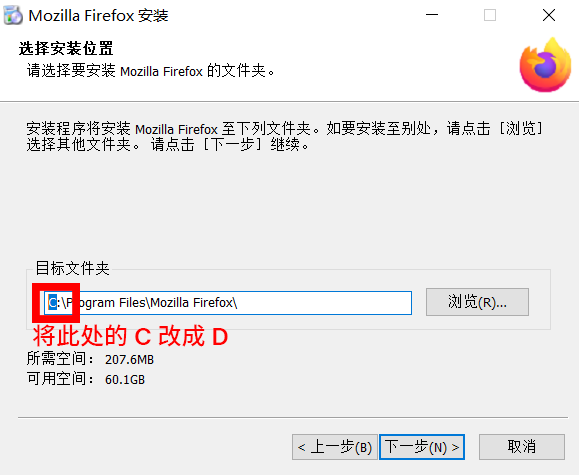
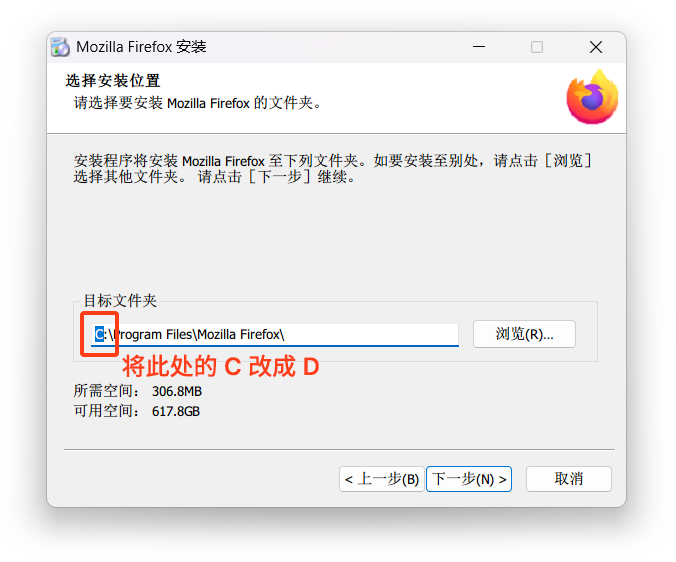
同步网页版；调整部分排版

diff --git a/chapters/chap_1-3_software-installation.tex b/chapters/chap_1-3_software-installation.tex
@@ -127,18 +127,18 @@
   一些软件可能有「安装版」和「便携版」之分——前者像普通软件一样，需要安装使用，而后者不必安装，下载后可以直接运行（可能需要解压）。一般来说，安装版文件名含有「setup」字样，而便携版可能有「portable」字样。一般我们建议下载安装版。
 \end{note}
 
-图\autoref{fig:Download_WPS} 展示了在 WPS 官网下载 WPS 软件，而图\autoref{fig:OBS} 展示了在 OBS Studio 官网下载 OBS Studio 软件。
+\autoref{fig:Download_WPS} 展示了在 WPS 官网下载 WPS 软件，而\autoref{fig:OBS} 展示了在 OBS Studio 官网下载 OBS Studio 软件。
 
 \begin{figure}[htb!]
   \centering
-  \includegraphics[width=10cm]{assets/basic/Download_WPS.png}
+  \includegraphics[width=.9\textwidth]{assets/basic/Download_WPS.png}
   \caption{从官网下载 WPS}
   \label{fig:Download_WPS}
 \end{figure}
 
 \begin{figure}[htb!]
   \centering
-  \includegraphics[width=10cm]{assets/basic/OBS.png}
+  \includegraphics[width=.9\textwidth]{assets/basic/OBS.png}
   \caption{从官网下载 OBS Studio}
   \label{fig:OBS}
 \end{figure}
@@ -172,11 +172,11 @@
   \label{fig:Download_page_1}
 \end{figure}
 
-点击之后我们会跳转到这样一个「下载地址」的页面。同样地，我们不要点击「优先使用✕✕管家下载」之下的所有链接，而要点击「普通下载地址」下方的【通用网络下载】等链接：
+点击之后我们会跳转到这样一个「下载地址」的页面。同样地，我们不要点击「优先使用✕✕管家下载」之下的所有链接，而要点击「普通下载地址」下方的【通用网络下载】等链接，如\autoref{fig:Download_page_2}。
 
 \begin{figure}[htb!]
   \centering
-  \includegraphics[width=10.5cm]{assets/basic/Download_page_2.png}
+  \includegraphics[width=.6\textwidth]{assets/basic/Download_page_2.png}
   \caption{选择「普通下载地址」中的链接}
   \label{fig:Download_page_2}
 \end{figure}
@@ -199,7 +199,7 @@
   \end{minipage} 
 \end{figure}
 
-我们用杀毒软件卡巴斯基扫描假的 OBS 安装包，结果如下：
+我们用杀毒软件卡巴斯基扫描假的 OBS 安装包，结果如\autoref{fig:Kaspersky_app_warning} 所示。而卡巴斯基提供的网页版说明，则对这种威胁有更详细的解释（\autoref{fig:Kaspersky_website_warning}）。在本章的最后，我们会向你展示这个使用【安全下载】得到的可疑文件究竟是什么。
 
 \begin{figure}[htb!]
   \centering
@@ -208,8 +208,6 @@
   \label{fig:Kaspersky_app_warning}
 \end{figure}
 
-而卡巴斯基提供的网页版说明，则对这种威胁有更详细的解释：
-
 \begin{figure}[htb!]
   \centering
   \includegraphics[width=.9\textwidth]{assets/basic/Kaspersky_website_warning.png}
@@ -217,7 +215,6 @@
   \label{fig:Kaspersky_website_warning}
 \end{figure}
 
-在本章的最后，我们会向你展示这个使用【安全下载】得到的可疑文件究竟是什么。
 
 \subsection{另辟蹊径：软件公众号及其他小众渠道}
 
@@ -239,7 +236,7 @@
 
 \begin{figure}[htb!]
   \centering
-  \includegraphics[width=.7\textwidth]{assets/basic/Ads_in_store.png}
+  \includegraphics[width=.85\textwidth]{assets/basic/Ads_in_store.png}
   \caption{在某软件管家中搜索「Bandizip」的结果}
   \label{fig:Bandizip_in_software_manager}
 \end{figure}
@@ -252,21 +249,21 @@
   \item 一个光秃秃的 \MissingVerb{exe} 文件或者 \MissingVerb{msi} 文件。我们直接双击这个文件就能启动安装进程。
     \begin{figure}[htb!]
       \centering
-      \includegraphics[width=.6\textwidth]{assets/basic/Single_file_installer.png}
+      \includegraphics[width=.9\textwidth]{assets/basic/Single_file_installer.png}
       \caption{单文件安装包}
       \label{fig:Single_file_installer}
     \end{figure}
   \item 一个压缩包，例如 \MissingVerb{zip} 或 \MissingVerb{rar} 文件。我们需要解压缩这个压缩包到某处，然后在解压出来的文件中找到「\MissingVerb{setup.exe}」「\MissingVerb{install.exe}」等名字的程序双击打开。
     \begin{figure}[htb!]
       \centering
-      \includegraphics[width=.6\textwidth]{assets/basic/Archive_installer.png}
+      \includegraphics[width=.9\textwidth]{assets/basic/Archive_installer.png}
       \caption{压缩文件安装包}
       \label{fig:Archive_installer}
     \end{figure}
   \item 一个扩展名是 \MissingVerb{iso} 的文件。我们右击这个 \MissingVerb{iso} 文件，选择【打开方式】→【文件资源管理器】，然后在弹出的新窗口中找到「\MissingVerb{setup.exe}」「\MissingVerb{install.exe}」等名字的程序双击打开\footnote{当你这样打开 \MissingTT{iso} 文件后，这个文件会临时被「映射」成电脑里的一个新「分区」，打开【此电脑】就能发现它。在你安装完成后，可以打开【此电脑】，右键这个分区选择【弹出】来让这个分区消失。}。
     \begin{figure}[htb!]
       \centering
-      \includegraphics[width=.6\textwidth]{assets/basic/Image_Installer.png}
+      \includegraphics[width=.8\textwidth]{assets/basic/Image_Installer.png}
       \caption{镜像文件安装包}
       \label{fig:Image_Installer}
     \end{figure}
@@ -275,7 +272,7 @@
 \begin{note}
   至于那些「绿色版」或「便携版」软件，它们没有「安装」这一过程。要么是单单一个 \MissingVerb{exe} 文件，点开就能用；要么以压缩包形式出现，但是「开箱即用」——解压后直接运行主程序就可以用，就像下面这样。
   \begin{center}
-    \includegraphics[width=.7\textwidth]{assets/basic/Portable_app.png}
+    \includegraphics[width=.8\textwidth]{assets/basic/Portable_app.png}
     \captionof{figure}{便携版软件}
     \label{fig:Portable_app}
   \end{center}
@@ -310,16 +307,16 @@ C:\Program Files (x86)\<厂商名字>\<软件名字>\
 
 \begin{figure}[htb!]
   \centering
-  \includegraphics[width=.55\textwidth]{assets/basic/Change_C_to_D.png}
+  \includegraphics[width=.65\textwidth]{assets/basic/Change_C_to_D.png}
   \caption{快速得到 D 盘安装软件的路径}
   \label{fig:Change_C_to_D}
 \end{figure}
 
-有一些软件的安装包不是「下一步」型的，而是直接有一个【立即安装】的按钮，如下图。一般这种情况，可以展开「自定义安装」之类的选项，然后更改软件的安装位置。
+有一些软件的安装包不是「下一步」型的，而是直接有一个【立即安装】的按钮，如\autoref{fig:Sogou_change_directory}。一般这种情况，可以展开「自定义安装」之类的选项，然后更改软件的安装位置。
 
 \begin{figure}[htb!]
   \centering
-  \includegraphics[width=8cm]{assets/basic/Sogou_change_directory.png}
+  \includegraphics[width=.65\textwidth]{assets/basic/Sogou_change_directory.png}
   \caption{有时候得找「自定义安装」的选项}
   \label{fig:Sogou_change_directory}
 \end{figure}
@@ -328,7 +325,7 @@ C:\Program Files (x86)\<厂商名字>\<软件名字>\
 \begin{MissingVerbatim}
   C:\用户\<你的用户文件夹名>\AppData
 \end{MissingVerbatim}
-这是因为 C 盘作为 Windows 系统所在的分区，有一套复杂的权限管理机制，往两个 \MissingVerb{Program Files} 目录放东西是需要管理员权限的（见\chapref{cha:basic-maintenance}）。相比之下，位于用户文件夹的 \MissingVerb{AppData} 则不需要管理员权限，因此被这些软件选为理想的安装路径。如果你想将这类软件安装到 D 盘或其他分区，可以在对应分区新建一个文件夹（例如 \MissingVerb{UserApps} 或 \MissingVerb{UserPrograms}）来统一存放它们。当然，你也可以照猫画虎地直接「改 C 为别的」来安装到其他分区，但这样会产生复杂的目录结构，可能不利于你自己管理。
+这是因为 C 盘作为 Windows 系统所在的分区，有一套复杂的权限管理机制，往两个 \MissingVerb{Program} \MissingVerb{Files} 目录放东西是需要管理员权限的（见\chapref{cha:basic-maintenance}）。相比之下，位于用户文件夹的 \MissingVerb{AppData} 则不需要管理员权限，因此被这些软件选为理想的安装路径。如果你想将这类软件安装到 D 盘或其他分区，可以在对应分区新建一个文件夹（例如 \MissingVerb{UserApps} 或 \MissingVerb{UserPrograms}）来统一存放它们。当然，你也可以照猫画虎地直接「改 C 为别的」来安装到其他分区，但这样会产生复杂的目录结构，可能不利于你自己管理。
 
 \begin{warning}
   若你仍想把软件\regcolor{安装到 C 盘，请不要更改其默认安装路径}。受 C 盘权限机制的影响，将软件随意安装到 C 盘内的其他位置可能会出现问题。
@@ -344,14 +341,14 @@ C:\Program Files (x86)\<厂商名字>\<软件名字>\
 
 \section{软件收费、破解和自由软件}
 
+很多软件是需要购买的，包括 Windows 系统本身（一般你购买电脑时，电脑厂商已经帮你出了买 Windows 这部分钱）。常见的专业软件，从平面设计领域的 Adobe 家族的 Photoshop（俗称「PS」）、Premiere Pro（俗称「PR」），工程领域的 Autodesk 家族的 AutoCAD、3ds MAX，到开发领域的 JetBrains 家族的 IDEA、PyCharm，甚至于我们每天都在用的 Word 和 PowerPoint，这些软件全部都需要付费购买。\autoref{fig:Adobe_PS}展示的是过去正版 Photoshop 和 Lightroom 软件的购买页面——定价 888 元一年。
+
 \begin{wrapfigure}[17]{r}{6.2cm}
   \centering
-  \raisebox{0pt}[\dimexpr\height-0.4\baselineskip\relax]{\includegraphics[width=6cm]{assets/basic/Adobe_PS.png}}
+  \includegraphics[width=6cm]{assets/basic/Adobe_PS.png}
   \caption{Adobe 的「Creative Cloud 中国摄影计划」套装。}
   \label{fig:Adobe_PS}
 \end{wrapfigure}
-
-很多软件是需要购买的，包括 Windows 系统本身（一般你购买电脑时，电脑厂商已经帮你出了买 Windows 这部分钱）。常见的专业软件，从平面设计领域的 Adobe 家族的 Photoshop、Premiere Pro，工程领域的 Autodesk 家族的 AutoCAD、3ds MAX，到开发领域的 JetBrains 家族的 IDEA、PyCharm，甚至于我们每天都在用的 Word 和 PowerPoint，这些软件全部都需要付费购买。右图是购买正版 Photoshop（俗称的 PS）软件的页面——定价 888 元一年。
 
 而由于这样或那样的原因，我们在实际生活中，或多或少都在「没有付费而『白嫖』这些软件」。这是因为我们使用的这些软件被「破解」了。破解之后，软件的计费功能失效，原本收费的软件通过某种方式变成了可以免费永久使用的软件。大体上，网上流传的破解软件一般有这么两种形式：
 
@@ -386,7 +383,7 @@ C:\Program Files (x86)\<厂商名字>\<软件名字>\
 
 \begin{figure}[htb!]
   \centering
-  \includegraphics[width=.7\textwidth]{assets/basic/MS_Store_Content.png}
+  \includegraphics[width=.8\textwidth]{assets/basic/MS_Store_Content.png}
   \caption{Microsoft Store 里的软件}
   \label{fig:MS_Store_Content}
 \end{figure}
@@ -403,7 +400,7 @@ C:\Program Files (x86)\<厂商名字>\<软件名字>\
 
 \begin{figure}[htb!]
   \centering
-  \includegraphics[width=.65\textwidth]{assets/basic/Fake_OBS_installer.png}
+  \includegraphics[width=.7\textwidth]{assets/basic/Fake_OBS_installer.png}
   \caption{假 OBS 的详细信息}
   \label{fig:Fake_OBS_installer}
 \end{figure}
@@ -420,7 +417,7 @@ C:\Program Files (x86)\<厂商名字>\<软件名字>\
   \end{minipage}
   \begin{minipage}{.55\textwidth}
     \centering
-    \includegraphics[width=.95\textwidth]{assets/basic/Fake_OBS_install.png}
+    \includegraphics[width=.99\textwidth]{assets/basic/Fake_OBS_install.png}
     \caption{假的 OBS 安装进度条}
     \label{fig:Fake_OBS_install}
   \end{minipage} 

diff --git a/chapters/chap_1-2_file-and-file-management.tex b/chapters/chap_1-2_file-and-file-management.tex
@@ -35,7 +35,7 @@
 
 \begin{figure}[htb!]
   \centering
-  \includegraphics[width=.9\textwidth]{assets/basic/Partition_structure.pdf}
+  \includegraphics[width=.75\textwidth]{assets/basic/Partition_structure.pdf}
   \caption{分区的结构}
   \label{fig:Partition_structure}
 \end{figure}
@@ -66,9 +66,8 @@
 
 \section{文件、文件名和文件类型}
 
-\begin{wrapfigure}[5]{r}{7.2cm}
+\begin{wrapfigure}[7]{r}{7.2cm}
   \centering
-  \vspace*{-3ex}
   \includegraphics[width=7cm]{assets/basic/5_files.png}
   \caption{一些文件}
   \label{fig:5_files}
@@ -79,7 +78,10 @@
 文件有自己的名字，称为「文件名」。在 Windows 系统中，文件名可以分成三个部分：
 
 \begin{itemize}
-  \item 「主名」是指文件名中，「点号」之前的部分。这部分内容可以自定，相当于人类的姓名。上图中，\MissingVerb{数字逻辑设计第 13 讲} 和 \MissingVerb{Obsidian.1.5.11} 等都是文件的主名。
+  \item 「主名」是指文件名中，「点号」之前的部分。这部分内容可以自定，相当于人类的姓名。\autoref{fig:5_files} 中，\MissingVerb{数字逻辑设计第 13 讲} 和 \MissingVerb{Obsidian.1.5.11} 等都是文件的主名。
+\end{itemize}
+
+\begin{itemize}
   \item 「点号」是指文件名中间\regcolor{最后一个} \MissingVerb{.}。
   \item 「扩展名」是指文件名中，点号之后的部分\cprotect\footnote{有时候我们称呼文件的扩展名时也会把点号包含进去。下面两种说法是等价的：
     \begin{itemize}
@@ -396,7 +398,7 @@ Windows 11 系统中，默认情况下，所有的已知文件夹会被固定在
 
 \begin{figure}[htb!]
   \centering
-  \includegraphics[width=.7\textwidth]{assets/basic/Win11_user_folders.png}
+  \includegraphics[width=.75\textwidth]{assets/basic/Win11_user_folders.png}
   \caption{Windows 11 的已知文件夹}
   \label{fig:Win11_user_folders}
 \end{figure}
@@ -405,7 +407,7 @@ Windows 11 系统中，默认情况下，所有的已知文件夹会被固定在
 
 \begin{figure}[htb!]
   \centering
-  \includegraphics[width=.7\textwidth]{assets/basic/Reach_known_folders_manually.png}
+  \includegraphics[width=.75\textwidth]{assets/basic/Reach_known_folders_manually.png}
   \caption{手动找到已知文件夹}
   \label{fig:Reach_known_folders_manually}
 \end{figure}
@@ -414,12 +416,12 @@ Windows 11 系统中，默认情况下，所有的已知文件夹会被固定在
 
 \begin{figure}[htb!]
   \centering
-  \includegraphics[width=.7\textwidth]{assets/basic/User_directories.png}
+  \includegraphics[width=.75\textwidth]{assets/basic/User_directories.png}
   \caption{Windows 10 的已知文件夹}
   \label{fig:User_directories}
 \end{figure}
 
-默认情况下，\cprotect\regcolor{已知文件夹的实际位置在 \MissingVerb{C:\用户\<你的用户名>}，这是你的「用户配置文件夹」（User Profile Folder，俗称「用户文件夹」）。}除了直接在【此电脑】中查看外，你也可以手动打开这个路径来找到它们。已知文件夹涵盖了「桌面」「文档」「图片」「音乐」「视频」等多种类别，并且都配有形象的图标。如果你计划将自己的文件存放在 C 盘，这些目录是不错的选择：毕竟，C 盘作为 Windows 的系统分区，有严格的保护机制，最好不要把你的文件直接放在 C 盘根目录下。
+默认情况下，\cprotect\regcolor{已知文件夹的实际位置在 \MissingVerb{C:\用户\<你的用户名>}\cprotect\footnote{\MissingVerb{C:\用户} 文件夹有些特殊：它在资源管理器中显示的名称是「用户」，但硬盘中存储的名称实际上是 \MissingVerb{Users}。因此，你可能会在其他地方看到 \MissingVerb{C:\Users} 这样的写法。下文介绍的各种已知文件夹也有类似的机制。在本书中，为了方便你在资源管理器中直接找到它们，我们会统一采用显示名称。}，这是你的「用户配置文件夹」（User Profile Folder，俗称「用户文件夹」）。}除了直接在【此电脑】中查看外，你也可以手动打开这个路径来找到它们。已知文件夹涵盖了「桌面」「文档」「图片」「音乐」「视频」等多种类别，并且都配有形象的图标。如果你计划将自己的文件存放在 C 盘，这些目录是不错的选择：毕竟，C 盘作为 Windows 的系统分区，有严格的保护机制，最好不要把你的文件直接放在 C 盘根目录下。
 
 但如果你打算把自己的文件放到其他的分区，你的选择就会自由很多，各个分区的根目录也许是不错的位置。你可以仿照 Windows 给你的已知文件夹，自己在其他分区的根目录下按类别新建好「文档」「电影」「音频」等文件夹，用来帮助自己整理文件。或者更直接点，\regcolor{你还可以将 Windows 提供给你的这些已知文件夹迁移到其他分区}，这样它们的实际位置就不再是 \MissingVerb{C:\用户\<你的用户名>}，而是你选定的地方了。例如，如果你想使用 D 盘根目录即 \MissingVerb{D:\} 来存放这些已知文件夹，可以按下面的步骤操作。
 
@@ -435,7 +437,7 @@ Windows 11 系统中，默认情况下，所有的已知文件夹会被固定在
   \item 在资源管理器中，右击某个我们想要迁移的文件夹（比如【文档】），选择【属性】，然后切换到【位置】选项卡，如\autoref{fig:Pos_of_Documents}。
     \begin{figure}[htb!]
       \centering
-      \includegraphics[width=.7\textwidth]{assets/basic/Pos_of_Documents.png}
+      \includegraphics[width=.75\textwidth]{assets/basic/Pos_of_Documents.png}
       \caption{查看「文档」的位置}
       \label{fig:Pos_of_Documents}
     \end{figure}

diff --git a/chapters/chap_3-4_manage-storage.tex b/chapters/chap_3-4_manage-storage.tex
@@ -146,6 +146,7 @@
   \includegraphics[width=.7\textwidth]{assets/advanced/Move_space_from_partition_to_partition.pdf}
   \caption{在分区之间转移空间}
   \label{fig:Move_space_from_partition_to_partition}
+  \vspace*{-.4cm}
 \end{figure}
 
 如果我们需要把 E 盘的空间转移给 C 盘，就需要更复杂的数据移动，逐级将可利用的空闲空间向前转移。Windows 自带的磁盘管理无法进行这些复杂的操作，所以我们需要借助一些第三方工具来完成这个任务。下面我们隆重介绍 DiskGenius。
@@ -167,9 +168,8 @@
     \label{fig:Dynamic_Disk}
   \end{center}
 
-  \regcolor{虽然动态磁盘能把硬盘上两块隔开的区域当成一个分区使用，但它存在大量兼容问题，已被弃用。}更严重的问题是，磁盘管理能随意把硬盘变成动态磁盘，但还原回去则需要格式化\CJKsout*{（垃圾微软，不留后路）}。想要直接还原成普通磁盘，得靠 DiskGenius 专业版或「傲梅分区助手」\footnotemark 这样的第三方工具，\regcolor{然而这一操作的风险极高，若在系统盘上操作，很可能让 Windows 无法启动}。
+  \regcolor{虽然动态磁盘能把硬盘上两块隔开的区域当成一个分区使用，但它存在大量兼容问题，已被弃用。}更严重的问题是，磁盘管理能随意把硬盘变成动态磁盘，但还原回去则需要格式化\CJKsout*[format=\color{MissingOrange}]{（垃圾微软，不留后路）}。想要直接还原成普通磁盘，得靠 DiskGenius 专业版或「傲梅分区助手」\footnotemark 这样的第三方工具，\regcolor{然而这一操作的风险极高，若在系统盘上操作，很可能让 Windows 无法启动}。
 \end{warning}
-
 \footnotetext{可以在 \url{https://www.disktool.cn/} 下载到。}
 
 \subsection{用 DiskGenius 进行高级分区调整}

diff --git a/chapters/chap_4-2_introduction-to-cryptology.tex b/chapters/chap_4-2_introduction-to-cryptology.tex
@@ -52,6 +52,9 @@
 
 \begin{note}
   在现代，为了解谜游戏的谜题，或为了实现某些特殊的效果，隐写术焕发了第二春。譬如本节的开头就藏着小小的一行「Steganography」。
+  \xeCJKsetup{CJKglue = {\hspace*{-1em}}}
+  \raisebox{-.8ex}{\tikz{\node[opacity=0] (0,0) {还有些电子文档会像这样藏一堆叠在一起的透明文字以达到特殊目的\hspace{-1em}，例如水字数\hspace{-1em}，或者隐藏一些提示词来诱导大语言模型给论文以较高的评价\hspace{-1em}。}}}
+  \xeCJKsetup{CJKglue = {\hskip 0pt plus 0.08\baselineskip}}
 \end{note}
 
 与隐写术相比，密码学（cryptography）的目标，则是将内容变换成常人看不懂的模样，这样的技术称为「密码」（cipher）。公元前 5 世纪，古斯巴达人使用过一种叫做「密码棒」（Scytale）的器械：一根缠绕有羊皮纸条的木棍。人们把信息竖着写在羊皮纸条上，写完后取下纸条，字母顺序就被打乱，难以再看出原本的信息。需要阅读时，只需取一根同样规格的木棍，将纸条重新缠绕即可。这是人类历史上已知的最早的密码器械。

diff --git a/chapters/chap_1-0_first-things-first.tex b/chapters/chap_1-0_first-things-first.tex
@@ -21,13 +21,14 @@
 
 \begin{wrapfigure}[5]{r}{2.5cm}
   \centering
-  \vspace*{-1ex}
+  \vspace*{-4ex}
   \includegraphics[width=2cm]{assets/basic/This_PC.png}
-  % \caption{一些文件}
-  % \label{fig:5_files}
+  \vspace*{-3ex}
+  \caption{【此电脑】图标}
+  \label{fig:This_PC}
 \end{wrapfigure}
 
-在《你缺计课》中，我们使用方头括号「【】」来标记所有屏幕上字面显示的选项。例如，当我们希望你右键桌面上长得右图一样的图标时，我们会称「右键【此电脑】」。
+在《你缺计课》中，我们使用方头括号「【】」来标记所有屏幕上字面显示的选项。例如，当我们希望你右键桌面上长得像右图一样的图标时，我们会称「右键【此电脑】」。
 
 % \begin{figure}[htb!]
 %   \centering

diff --git a/chapters/chap_3-Z_windows-11-optimization.tex b/chapters/chap_3-Z_windows-11-optimization.tex
@@ -77,7 +77,7 @@ Windows 11 在「文件资源管理器」（包括桌面）中引入了一套新
 
 \begin{figure}[htb!]
   \centering
-  \includegraphics[width=.65\textwidth]{assets/advanced/new-explorer.png}
+  \includegraphics[width=.75\textwidth]{assets/advanced/new-explorer.png}
   \caption{Windows 11 的新资源管理器}
   \label{fig:new-explorer}
 \end{figure}
@@ -186,7 +186,7 @@ Windows Registry Editor Version 5.00
 
 \begin{figure}[htb!]
   \centering
-  \includegraphics[width=.7\textwidth]{assets/advanced/F1_help_browser.png}
+  \includegraphics[width=.65\textwidth]{assets/advanced/F1_help_browser.png}
   \caption{没用的帮助}
   \label{fig:F1_help_browser}
 \end{figure}

diff --git a/chapters/chap_1-1_computer-and-its-components.tex b/chapters/chap_1-1_computer-and-its-components.tex
@@ -128,7 +128,7 @@
 按 \keys{Ctrl + Shift + Esc} 打开「任务管理器」，选择【性能】页面，就能看见 CPU 的型号、基准频率（标注为【基准速度】）和核心数（标注为【内核】）。
 
 \begin{note}
-  你也可以右击【开始按钮】，选择【任务管理器】来打开「任务管理器」。
+  你也可以右击【开始】按钮，选择【任务管理器】来打开「任务管理器」。
 \end{note}
 
 \subsection{内存（RAM）}
